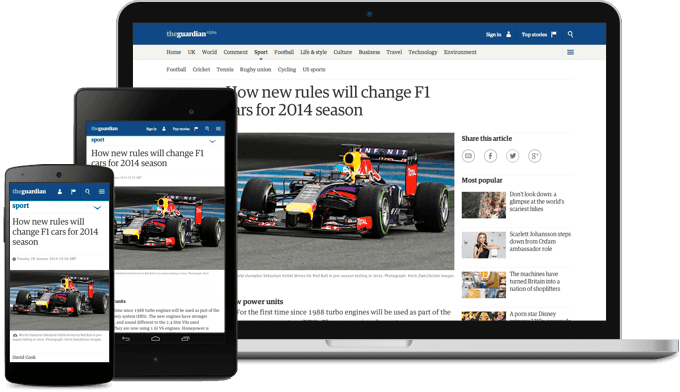
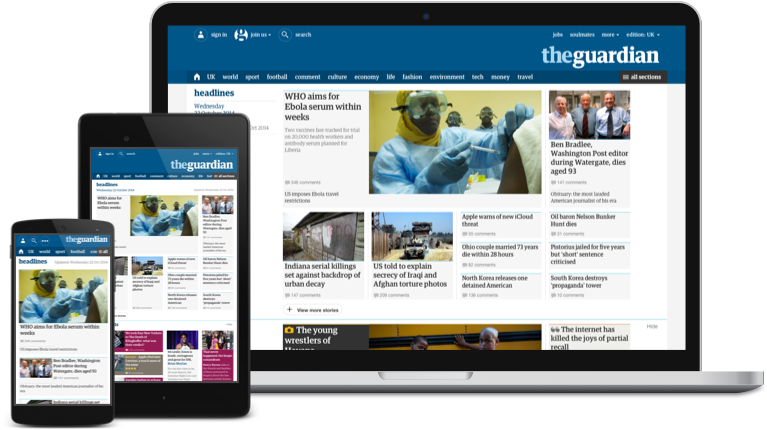
add us launch update

diff --git a/jekyll/_posts/2014-10-24-us-update.md b/jekyll/_posts/2014-10-24-us-update.md
@@ -1,0 +1,33 @@
+---
+layout: article
+title: A new look for the Guardian US site
+author: guardian
+summary: "Designed around your feedback, with our journalism at its heart."
+---
+
+We are now just days away from launching our new site to all US readers. It's a site that we have designed around your feedback, with our journalism at its heart.
+ 
+We wanted to create a place for you to discover and consume more of our award-winning journalism, more often. An experience that is easy to use, regardless of which device you’re using, and where you’re accessing it from. 
+<img src="/assets/images/devices.png" style="margin:20px 0;" />
+
+[Built in the open](http://next.theguardian.com/blog/making-beta-better/), we invited our readers to try out the new site in beta since February. We have a very passionate, very loyal readership and thanks to your 25,000 pieces of feedback, we have been able to shape, develop and improve the site in the open, every step of the way. 
+
+## So what’s new?
+
+The first thing you’ll notice is the new look and feel, a more elegant and engaging blend of images, video and text.
+ 
+The design now centres around a flexible [‘container’](http://next.theguardian.com/blog/container-model-blended-content/) format, which reflects the way news is consumed, rather than how it is produced. Containers can be customised in a variety of different ways to highlight stories, and allow editors to think beyond simply building a page, to creating a collection of stories that bring each day’s news to life for readers.
+
+<img src="/assets/images/container-eg.png" width="100%" style="margin:30px 0 25px 0;" />
+ 
+There’s also an abundance of new features: from redesigned [video](http://next.theguardian.com/blog/video-redesign/) and [gallery](http://next.theguardian.com/blog/gallery-redesign/) pages, new-look [live blogs](http://next.theguardian.com/blog/liveblog-redesign/), new type and iconography, a new colour palette to guide people to specific sections, stories and writers.
+
+<img src="/assets/images/Ebola-responsive-video.gif" />
+
+The new site is also faster – connecting you to the stories of the day, the hour and the minute, even more quickly.
+
+The navigation is now much more consistent across the site. It’s much more focussed, making it easier to learn and find the common sections. We have allowed you to jump to any section from any page from the 'all sections' list.
+
+Commercially, we have integrated advertising more intelligently into the design.   This includes a new fully responsive, full width ad formats that works across all devices. 
+
+We’re really proud of the new site and we hope you like it. Please leave your thoughts and comments on our [feedback form](https://www.surveymonkey.com/s/theguardian-us-edition-feedback).
